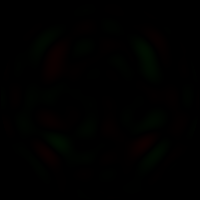
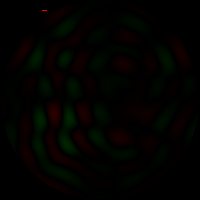
sync

diff --git a/excFDTD/excFDTD.c b/excFDTD/excFDTD.c
@@ -379,9 +379,9 @@ void DCP_HE_C(void)
 			Hy[offset] -= (eps0_c_Ez[offset] - eps0_c_Ez[offset + _offsetX] + eps0_c_Ex[offset + _offsetZ] - eps0_c_Ex[offset]) *_cdt_div_dx;
 			Hz[offset] -= (eps0_c_Ex[offset + _offsetZ] - eps0_c_Ex[offset + _offsetY + _offsetZ] + eps0_c_Ey[offset + _offsetZ] - eps0_c_Ey[offset - _offsetX + _offsetZ]) * _cdt_div_dx;
 
-			Bx[offset] = complex_mul(complex_mul(sy[offset], sz[offset]), complex_make(Hx[offset] / sx[offset].re, Hx[offset] / sx[offset].im)).re;
-			By[offset] = complex_mul(complex_mul(sz[offset], sx[offset]), complex_make(Hy[offset] / sy[offset].re, Hy[offset] / sy[offset].im)).re;
-			Bz[offset] = complex_mul(complex_mul(sx[offset], sy[offset]), complex_make(Hz[offset] / sz[offset].re, Hz[offset] / sz[offset].im)).re;
+			Bx[offset] = Hx[offset];
+			By[offset] = Hy[offset];
+			Bz[offset] = Hz[offset];
 		}
 		if (((mask[offset] & (1 << 1)) >> 1) == 1) {//PML 
 
